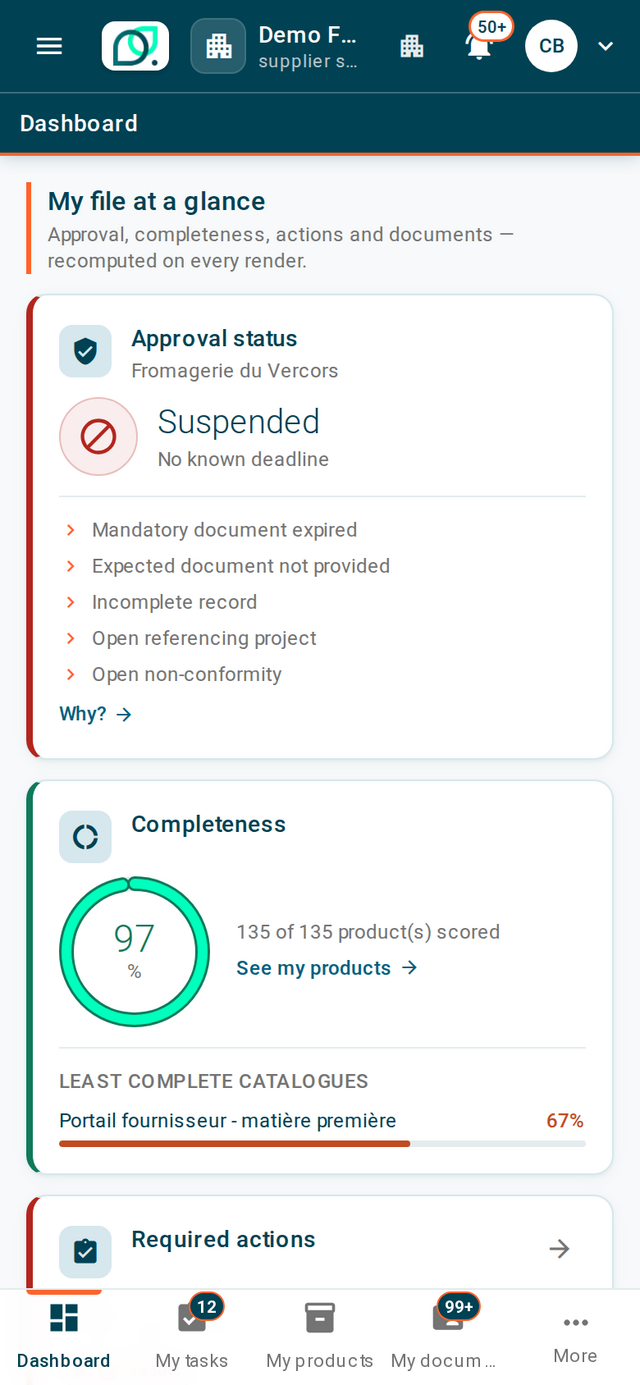
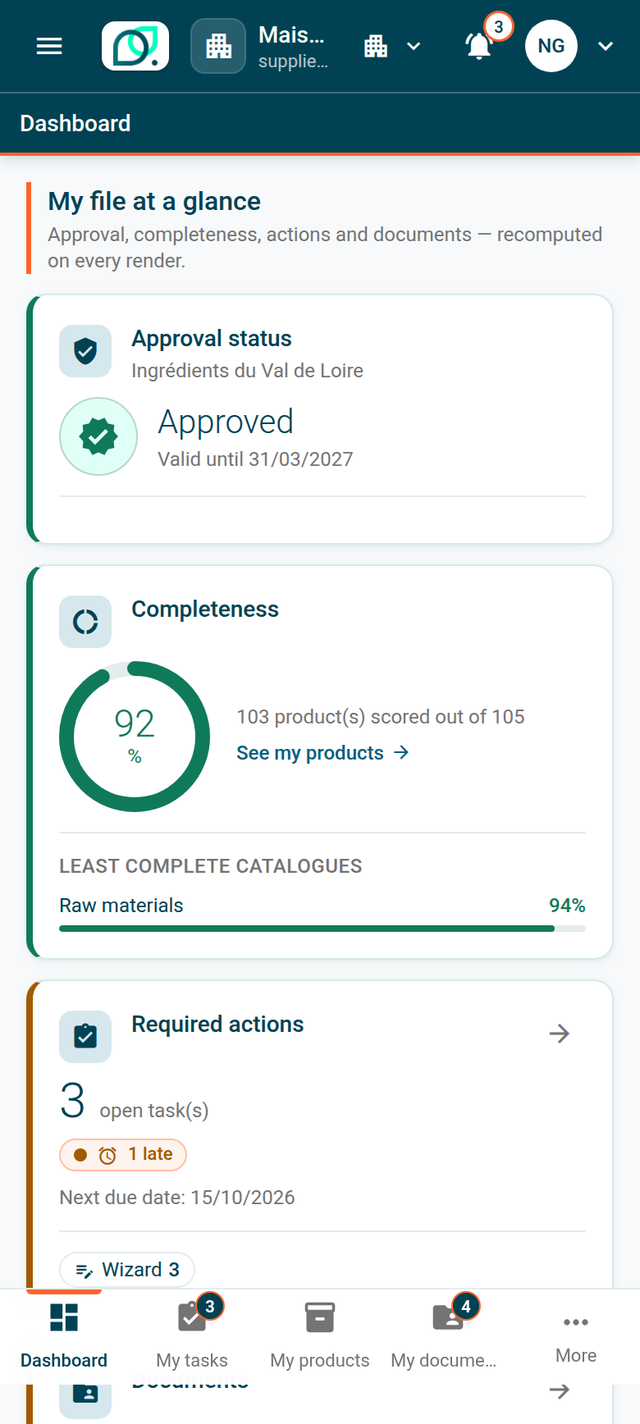
InProgress #36677 - [Feature] - Replace the README screenshots with the 26.1 showcase set and move the demo disclaimer up

diff --git a/README.md b/README.md
@@ -15,6 +15,9 @@ own PLM configuration.**
 
 ![The supplier dashboard](doc/images/supplier-dashboard.png)
 
+> 📸 **Screenshots taken from a demo instance.** Brand, supplier, product and people names are
+> fictitious, and figures are demonstration data.
+
 ---
 
 ## 🚀 What is the beCPG Supplier Portal?
@@ -268,6 +271,3 @@ and [NOTICE](NOTICE). Third-party dependencies are listed in
 ---
 
 ⚡ **beCPG – Accelerate innovation, stay compliant, and reduce PLM costs for CPG companies.**
-
-<sub>Screenshots taken from a demo instance; supplier names and figures are demonstration
-data.</sub>
